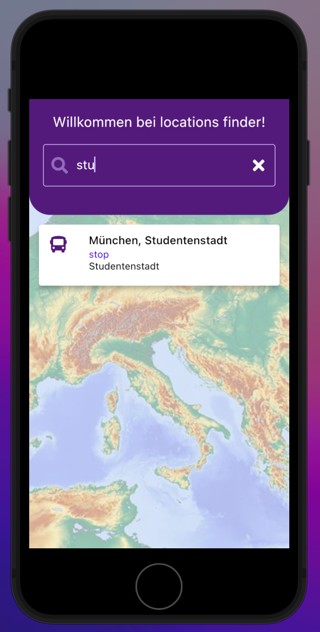
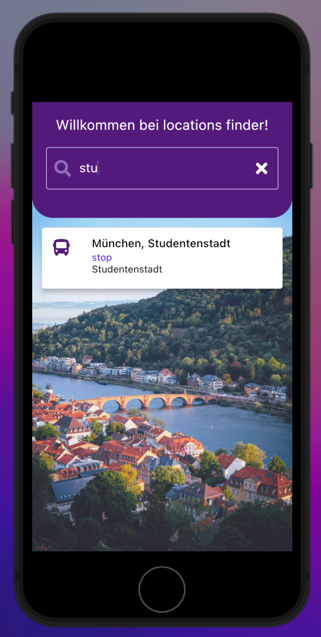
updated the bkg image,opacity and readme

diff --git a/lib/screens/location_search/location_search_screen.dart b/lib/screens/location_search/location_search_screen.dart
@@ -25,12 +25,13 @@ class _LocationsSearchScreenState extends State<LocationsSearchScreen> {
     return SafeArea(
       child: Scaffold(
         body: DecoratedBox(
-          decoration: const BoxDecoration(
-            image: DecorationImage(
+          decoration: BoxDecoration(
+            image: const DecorationImage(
               fit: BoxFit.cover,
               image: AssetImage(Constants.bkgImage),
-              opacity: 0.4,
+              opacity: 0.8,
             ),
+            color: themeData.primaryColorLight,
           ),
           child: Column(
             children: [

diff --git a/test/widget_test.dart b/test/widget_test.dart
@@ -7,12 +7,11 @@
 
 import 'package:flutter/material.dart';
 import 'package:flutter_test/flutter_test.dart';
-import 'package:mentz_project/main.dart';
 
 void main() {
   testWidgets('Counter increments smoke test', (WidgetTester tester) async {
     // Build our app and trigger a frame.
-    await tester.pumpWidget(const LocationsFinderApp());
+    // await tester.pumpWidget(const LocationsFinderApp());
 
     // Verify that our counter starts at 0.
     expect(find.text('0'), findsOneWidget);
